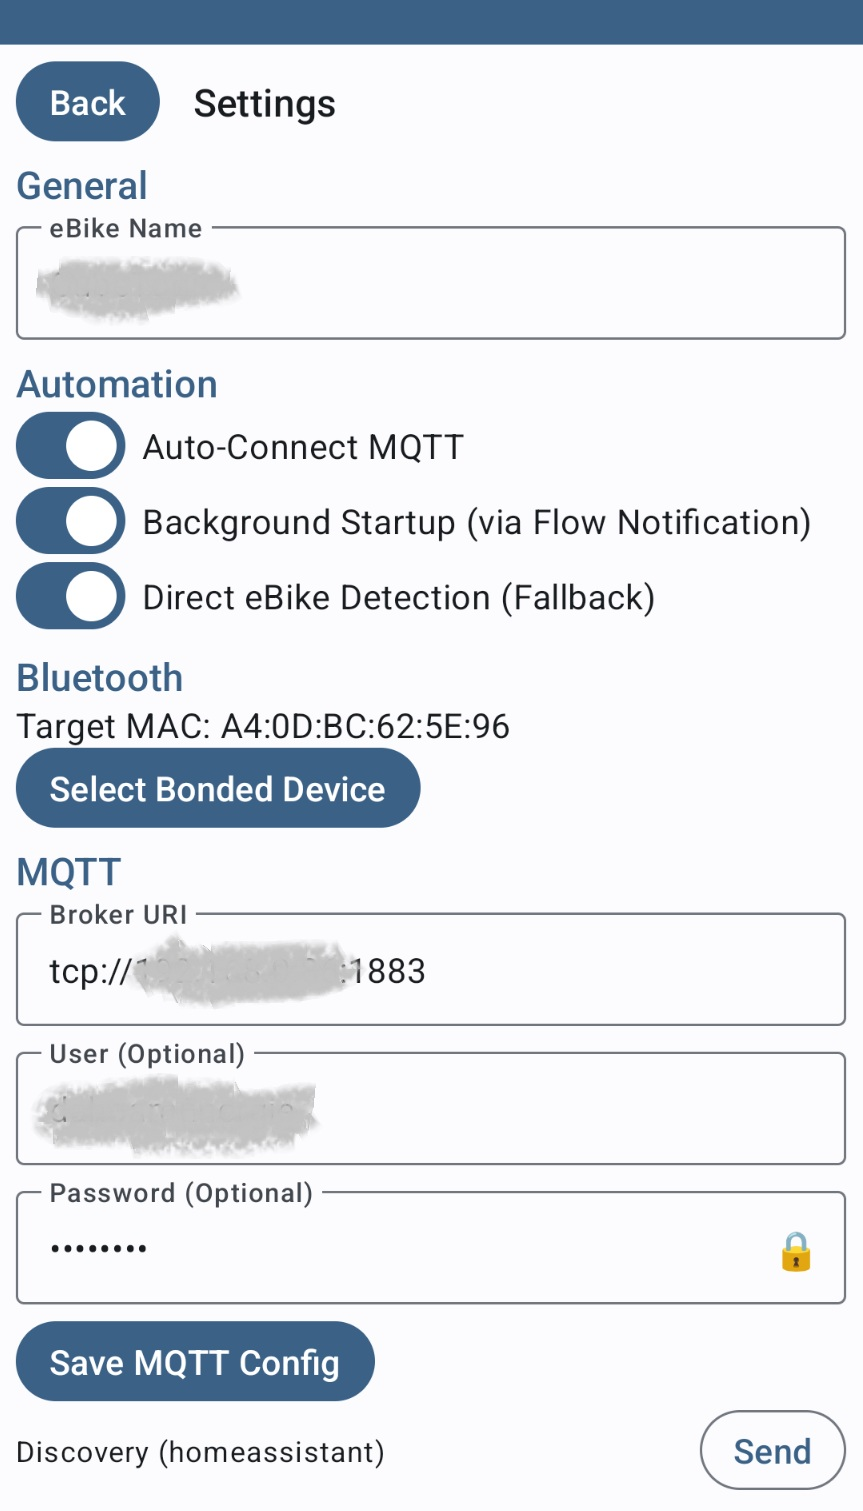
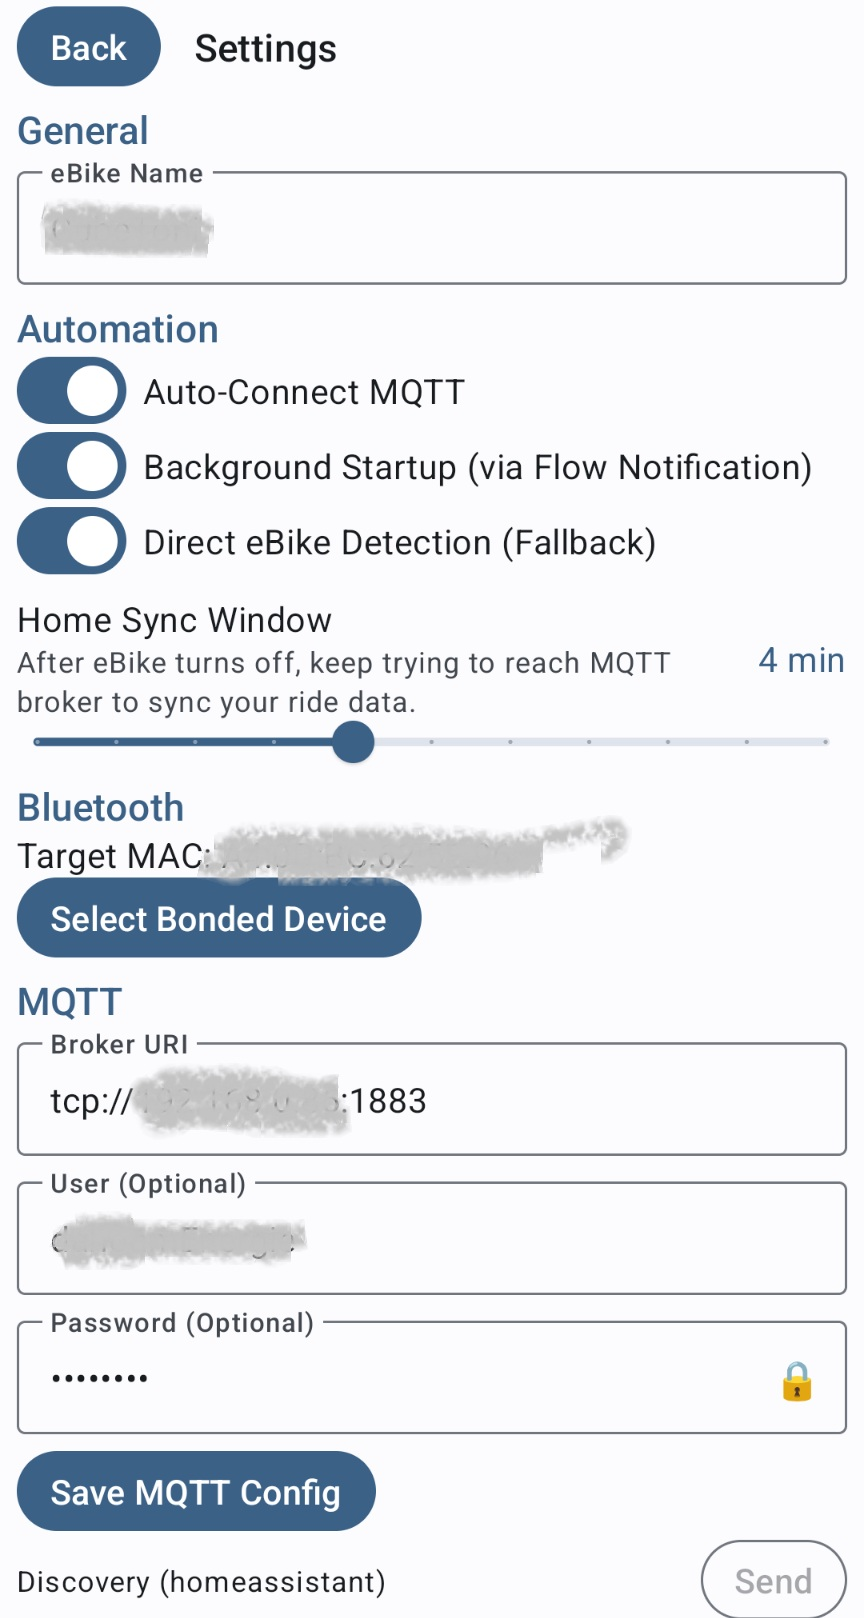
iteration on the way to V1.15.1 with enhanced MQTT handling

Changed region(s): [[0.0, 0.0, 1.0, 0.9954], [0.8134, 0.9332, 0.9942, 1.0], [0.9641, 0.1244, 0.9942, 0.1555]]

diff --git a/app/src/main/java/com/example/ebikemonitor/EBikeBackgroundService.kt b/app/src/main/java/com/example/ebikemonitor/EBikeBackgroundService.kt
@@ -155,27 +155,36 @@ class EBikeBackgroundService : Service() {
                 val shouldServiceRun = uiActive || shouldMonitor
                 
                 FileLogger.log("EBikeBackgroundService: State updated: bikePresent=$bikePresent, bgStartup=$bgStartup, directDetection=$directDetection, uiActive=$uiActive -> shouldMonitor=$shouldMonitor, shouldServiceRun=$shouldServiceRun")
-                
+
+                // ── Bike-off transition: handled BEFORE shouldServiceRun check ──────────
+                // This must fire regardless of uiActive so the Home Sync Window starts
+                // even when shouldServiceRun=false (UI inactive + bike off simultaneously).
+                if (lastBikePresent == true && !bikePresent) {
+                    val snapshot = app.bleManager.bikeStatus.value
+                    FileLogger.log("EBikeBackgroundService: Bike disconnected. Disconnecting BLE.")
+                    bleManager.disconnect()
+                    val homeSyncMins = settings.homeSyncDurationMins.first()
+                    if (homeSyncMins > 0 && snapshot.lastUpdateTimestamp > 0 && !mqttManager.isConnected.value) {
+                        // MQTT not connected — Home Sync Window will push the snapshot when WiFi arrives
+                        startHomeSyncWindow(snapshot, homeSyncMins * 60_000L)
+                    } else {
+                        if (mqttManager.isConnected.value) {
+                            FileLogger.log("EBikeBackgroundService: MQTT already connected at bike-off — data synced during ride. Disconnecting MQTT.")
+                        } else {
+                            FileLogger.log("EBikeBackgroundService: Home Sync Window disabled or no BLE data. Disconnecting MQTT.")
+                        }
+                        mqttManager.disconnect()
+                    }
+                }
+
+                // ── Service lifecycle gate ────────────────────────────────────────────
                 if (shouldServiceRun) {
                     if (shouldMonitor) {
                         cancelHomeSyncWindow()  // bike is back on — main loop takes over
                         startReconnectionLoop()
                     } else {
                         stopReconnectionLoop()
-                        // Bike just turned off: take snapshot and start Home Sync Window
-                        if (lastBikePresent == true && !bikePresent) {
-                            val snapshot = app.bleManager.bikeStatus.value
-                            FileLogger.log("EBikeBackgroundService: Bike disconnected. Disconnecting BLE.")
-                            bleManager.disconnect()
-                            val homeSyncMins = settings.homeSyncDurationMins.first()
-                            if (homeSyncMins > 0 && snapshot.lastUpdateTimestamp > 0) {
-                                // Don't disconnect MQTT yet — Home Sync Window handles it
-                                startHomeSyncWindow(snapshot, homeSyncMins * 60_000L)
-                            } else {
-                                FileLogger.log("EBikeBackgroundService: Home Sync Window disabled or no BLE data. Disconnecting MQTT.")
-                                mqttManager.disconnect()
-                            }
-                        }
+                        // Bike-off disconnect already handled above
                     }
                 } else {
                     if (homeSyncJob?.isActive == true) {

diff --git a/app/src/main/java/com/example/ebikemonitor/service/EBikeNotificationListener.kt b/app/src/main/java/com/example/ebikemonitor/service/EBikeNotificationListener.kt
@@ -59,6 +59,11 @@ class EBikeNotificationListener : NotificationListenerService() {
 
         if (packageName == "com.bosch.ebike.onebikeapp") {
             if (channelId == "com.bosch.ebike.flow.pocketmode.channel") {
+                val wasPresent = com.example.ebikemonitor.BikePresenceManager.isBikePresent.value
+                if (!wasPresent) {
+                    FileLogger.log("EBikeNotificationListener: Duplicate removal ignored (Flow already absent).")
+                    return
+                }
                 FileLogger.log("EBikeNotificationListener: Bosch Pocket Mode notification removed.")
                 updateFlowConnected(false)
             }